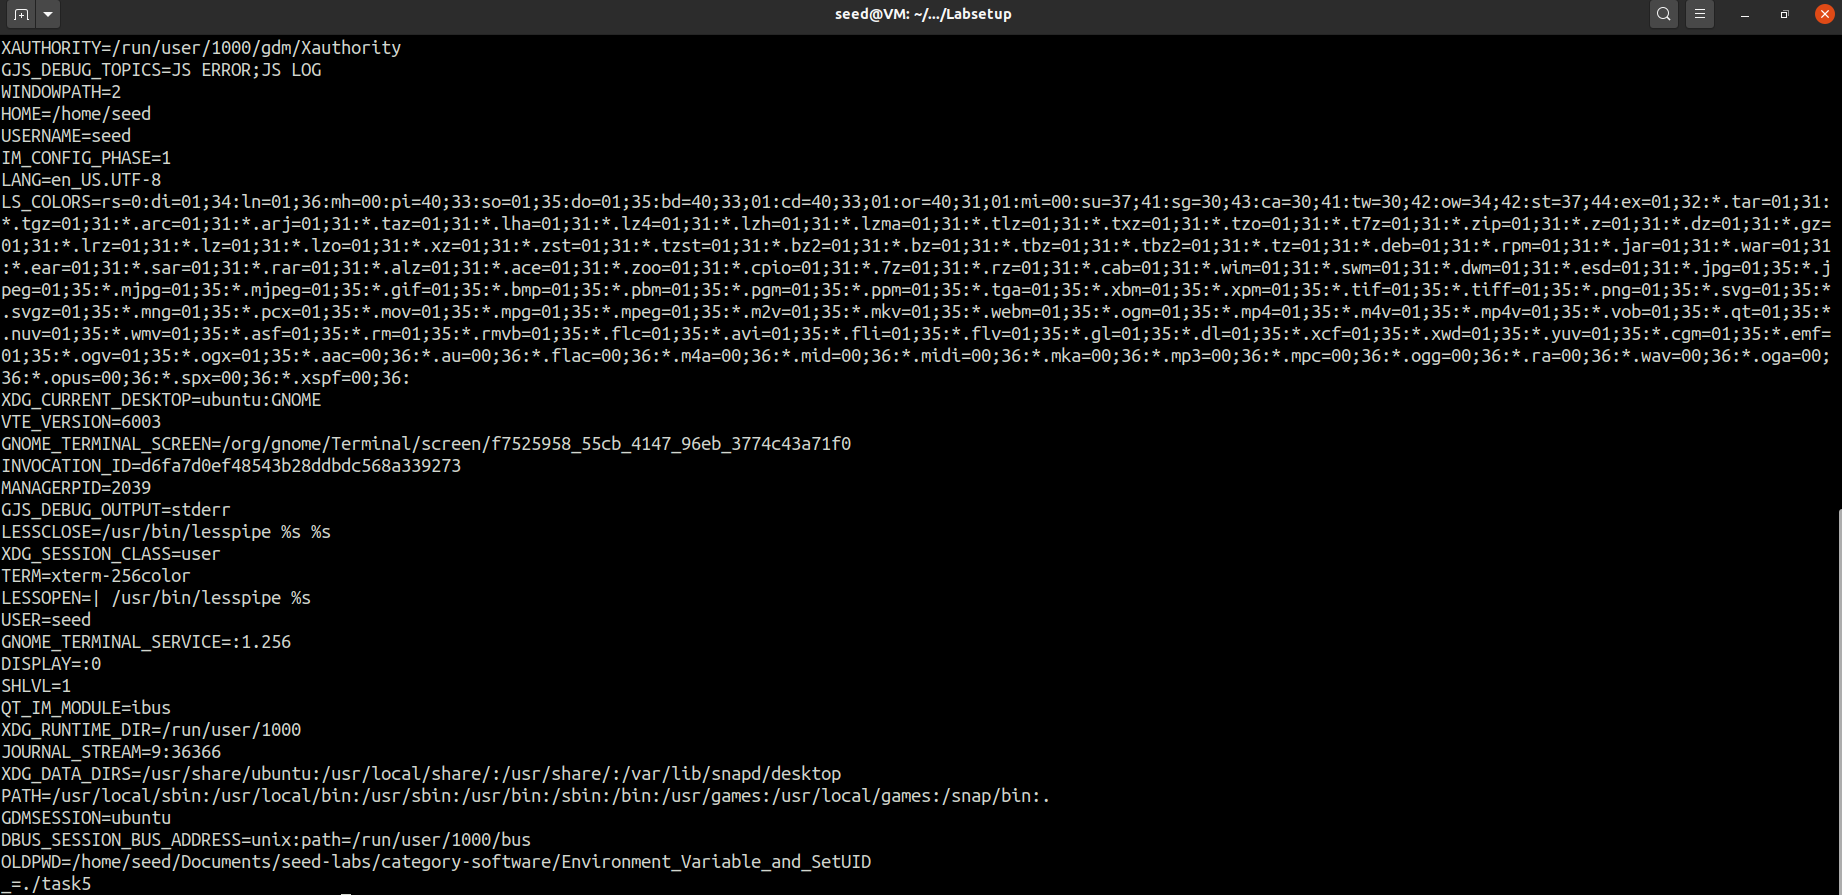
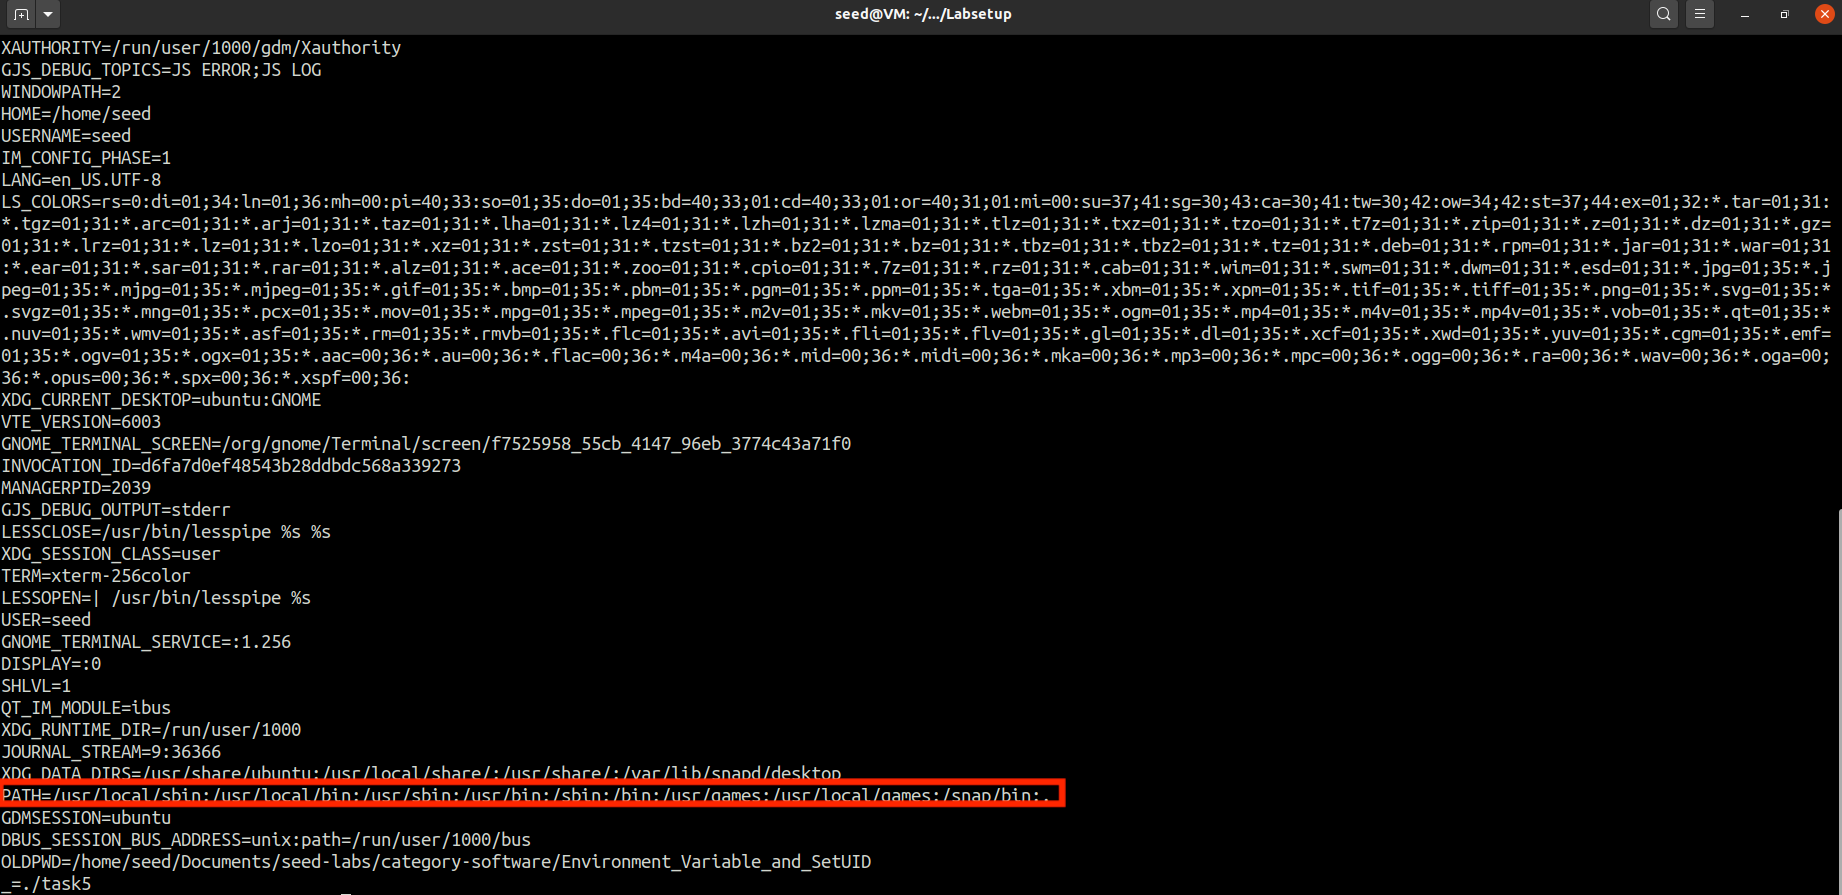
Photos added to logbook 4 and 5

Changed region(s): [[0.0, 0.8447, 0.5879, 0.905]]

diff --git a/LOGBOOK5.md b/LOGBOOK5.md
@@ -2,30 +2,33 @@
 
 - **Task 1**:
     - Compile code and execute
-    (meter foto minha)
+![task1.1](docs/logbook5/task1_ph1.png)
 
 - **Task 2**:
     - The program has a vulnerability since the strcpy doesn't check sizes.
     - When our input file is bigger than the buf size, a buffer overflow occurs.
     - Since this program is root-owned SET-UID the user might be able to get a root shell while exploiting this buffer overflow.
-    (meter foto 1)
+![task2.1](docs/logbook5/task2_ph1.png)
 
 - **Task 3**:
-    - To exploit this vulnerability first and most important we need to find the distance between the buffer`s starting position and the place where the return-adress is stored.After finding this information we must change the return adress to a position where we have our shellcode.
-    - Finding the distance between the buffer`s starting position and return adress with gdb:
+    - To exploit this vulnerability firstly and most importantly we need to find the distance between the buffer's starting position and the place where the return-adress is stored. After finding this information, we must change the return adress to a position where we have our shellcode.
+    - To find the distance between the buffer's starting position and return adress with gdb:
         - First set a break point at bof().
-        - The program stops before the ebp register is pointing to the current stack frame. Using the gdb's 'next'  command we can get the current stack frame and the buffer`s adress.
-        (meter foto do gdb )
+        - The program stops before the ebp register is pointing to the current stack frame. Using the gdb's 'next'  command we can get the current stack frame and the buffer's adress.
         - ebp -> 0xffffca68
         - buffer -> 0xffffc9fc
-        - Using this values we can represent our stack and calculate the offset between the buffer`s starting point and the return address:
-        (meter foto stack)
+![task3.1](docs/logbook5/task3_ph1.png)
+![task3.2](docs/logbook5/task3_ph2.png)
+![task3.3](docs/logbook5/task3_ph3.png)
+![task3.4](docs/logbook5/task3_ph4.png)
+        - Using this values we can represent our stack and calculate the offset between the buffer's starting point and the return address:
+![task3.5](docs/logbook5/task3_ph5.png)
     
     - The next step is to prepare our payload, we will be using the following python script:
-        (meter foto python script)
+![task3.6](docs/logbook5/task3_ph6.png)
         - First the payload is filled with NOP's.
         - The shellcode will be allocated to the end of the buffer. This way the start variable is the size of the buffer (517 bytes) minus the shellcode size.
-        - The frame pointer obtained from the gdb is different form the actual pointer because gdb has pushed some environment data before runnig the debugged program, therefore, the frame pointer will be larger. We approach this problem with brute force, after a few tries we found that adding 0xd0 to our return address was enough to complete succesfuly our exploit. 
+        - The frame pointer obtained from the gdb is different form the actual pointer because gdb has pushed some environment data before running the debugged program, therefore, the frame pointer will be larger. We approach this problem with brute force, after a few tries we found that adding 0xd0 to our return address was enough to complete succesfuly our exploit. 
         - As we can see explained in our stack representation, 112 bytes is the offset between the start of the buffer and the return address: (100 buf bytes + 8 local variables bytes + 4 ebp bytes )
     - Lauching the attack successfully:
-      (meter foto execução e a shell a ser lançada com permissao root)
+![task3.7](docs/logbook5/task3_ph7.png)

diff --git a/LOGBOOK4.md b/LOGBOOK4.md
@@ -24,22 +24,22 @@
 ![task3](docs/logbook4/task3_ph1.png)
 
 - **Task 4**:
-  - With the system() call all environment variables are passed to the new program /bin/sh.
+  - With the system() call, all environment variables are passed to the new program /bin/sh.
 
 ![task4](docs/logbook4/task4_ph1.png)
 
 - **Task 5**:
-  - After compiling and setting this program as a SET-UID program we set the LD_LIBRARY_PATH and ANY_NAME environment variables to "something" and "else",respectively.
+  - After compiling and setting this program as a SET-UID program we set the LD_LIBRARY_PATH and ANY_NAME environment variables to "something" and "else", respectively.
   - Since we are executing a program with root privileges in a user account some environment variables will not be exported. As we can see in the screenshot only the ANY_NAME environment variable was exported correctly to "else".
-  - DESTACAR AS VARIAVEIS DE AMBIENTE INTERESSANTES NAS FOTOS
 
 ![task5.1](docs/logbook4/task5_ph1.png)
 ![task5.2](docs/logbook4/task5_ph2.png)
 ![task5.3](docs/logbook4/task5_ph3.png)
 - **Task 6**:
   - To execute this exploit first we add the directory /home/seed/exploit to the beginning of the PATH.
-  - In this directory we create an executable called "ls" that executes a system call with "sudo apt-get update". Only root-users should be able to execute this command.
+  - In this directory, we create an executable called "ls" that executes a system call with "sudo apt-get update". Only root-users should be able to execute this command.
   - After this we create the given code that uses the relative path for the ls command and set it as a SET-UID program.
   - When executing this code the operative system will search for the first "ls" match. As we changed the PATH the system will start looking in our folder and the first occurrence is our "ls" executable.Therefore, a "sudo apt-get update" will execute.
-
-  
+  ![task6.1](docs/logbook4/task6_ph1.png)
+  ![task6.2](docs/logbook4/task6_ph2.png)
+  ![task6.3](docs/logbook4/task6_ph3.png)
